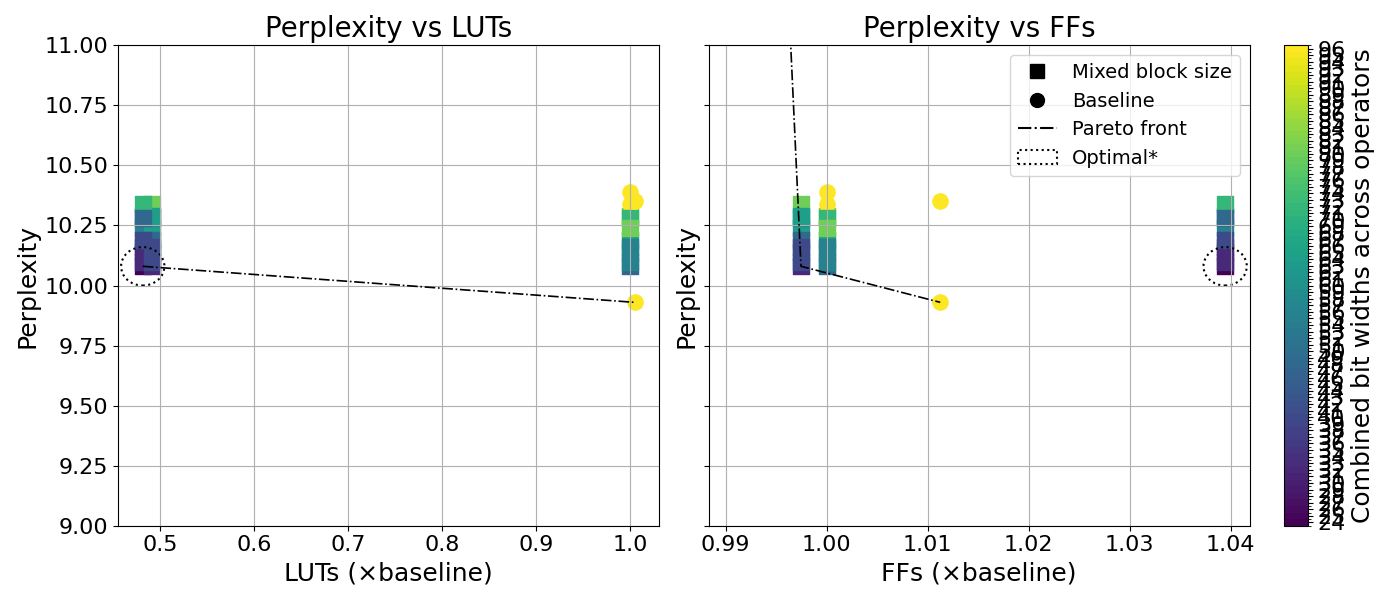
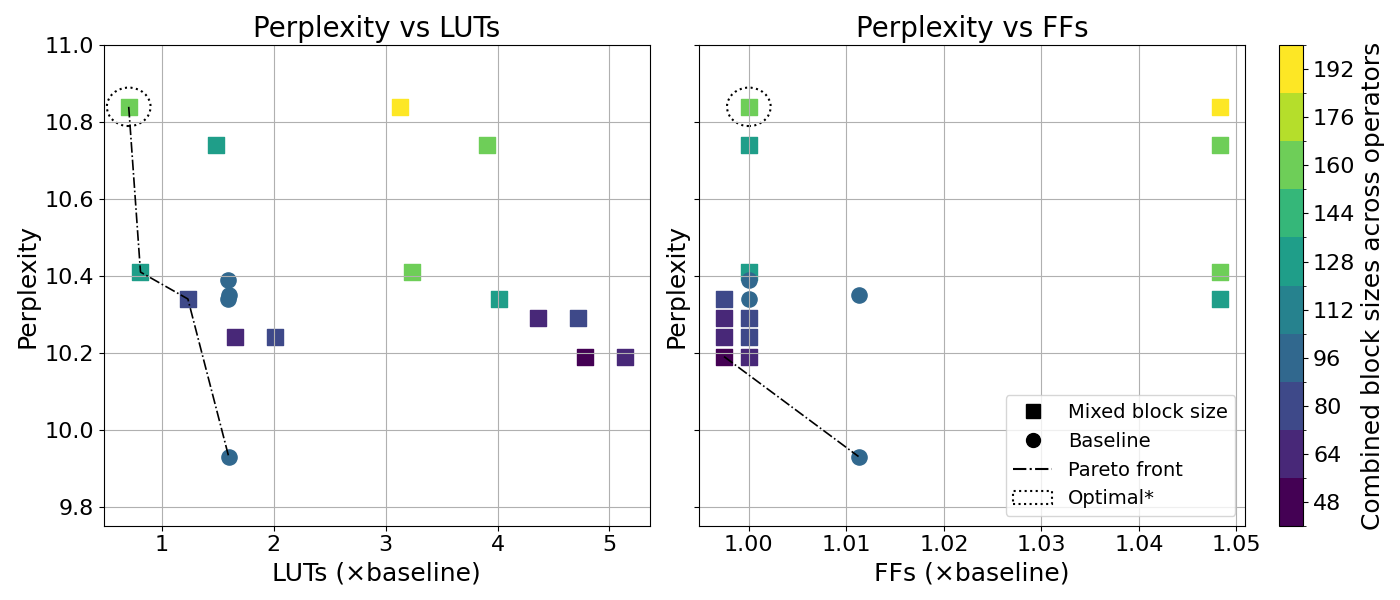
working on accum ablation

diff --git a/DSE.py b/DSE.py
@@ -24,7 +24,7 @@ from deap import base, creator, tools, algorithms
 
 DEBUG_COUNTER = 0
 
-LUTS_BASELINE = 8364022 # TODO
+LUTS_BASELINE = 11874317 # TODO
 FFS_BASELINE = 2592801 # TODO
 
 def gplearn_expr_to_math(expr):
@@ -189,7 +189,8 @@ class DesignConfig:
     )
     
   def is_baseline(self):
-    baseline_e_m = [(0, 8), (5, 2), (4, 3), (3, 2), (2, 3), (2, 1)]
+    baseline_e_m = [(0, 8), (5, 2), (4, 3), (3, 2), (2, 3), (2, 1)] #  ABLATION: BASELINE & MIXED PRECISION
+    # baseline_e_m = [(5, 2), (4, 3), (3, 2), (2, 3)] # ABLATION: MIXED K
     if not any(self._check_all_widths_are(e, m, 5, 10) for e, m in baseline_e_m):
       return False
     
@@ -218,6 +219,15 @@ class DesignConfig:
     if not self._check_if_model_dims_are_baseline():
       return False
     
+    if self.M1_bits.exp_bits + self.M1_bits.mant_bits > 7:
+      return False
+    
+    if self.M2_bits.exp_bits + self.M2_bits.mant_bits > 7:
+      return False
+    
+    if self.M3_bits.exp_bits + self.M3_bits.mant_bits > 7:
+      return False
+    
     return True
   
   def is_mixed_k_ablation(self):
@@ -225,6 +235,16 @@ class DesignConfig:
     baseline_e_m = [(2,3)]
     if not any(self._check_all_widths_are(e, m, 5, 10) for e, m in baseline_e_m):
       return False
+    
+    # Only check for certain k values
+    allowed_k = [16, 32, 64]
+    if self.k1 not in allowed_k:
+      return False
+    if self.k2 not in allowed_k:
+      return False
+    if self.k3 not in allowed_k:
+      return False
+    
     
     baseline_accum_methods = [AccumMethod.Kulisch]
     if not any(self._check_all_accum_methods_are(method) for method in baseline_accum_methods):
@@ -234,6 +254,33 @@ class DesignConfig:
       return False
     
     return True
+  
+  # designs_to_synthesise = [
+  #   DesignConfig(name, S, S, d, d, k1, k2, k3, scale_width, M1_E, M1_M, M2_E, M2_M, M1_E, M1_M, accum_method_1, accum_method_1, accum_method_1, m1_dsp, m1_dsp, m1_dsp)
+  #   for name in ["attention_fp"]
+  #   for S in [2048]
+  #   for d in [64]
+  #   for k1 in [32]
+  #   for k2 in [32]
+  #   for k3 in [32]
+  #   for scale_width in [8]
+  #   for M1_E, M1_M in [(0, 8), (5, 2), (4, 3), (3, 2), (2, 3), (2, 1)]
+  #   for M2_E, M2_M in [(5, 10)]
+  #   for accum_method_1 in [AccumMethod.Kahan, AccumMethod.Neumaier, AccumMethod.Klein, AccumMethod.TwoSum, AccumMethod.FastTwoSum]
+  #   for m1_dsp in ["auto"]
+  # ]
+  
+  def is_mixed_accum_ablation(self):
+    baseline_k = [32]
+    if not any(self._check_all_k_are(k) for k in baseline_k):
+      return False
+    
+    e_m = [(0, 8), (5, 2), (4, 3), (3, 2), (2, 3), (2, 1)]
+    if not any(self._check_all_widths_are(e, m, 5, 10) for e, m in e_m):
+      return False
+    
+    return True
+    
 
   def __repr__(self):
     return (
@@ -759,7 +806,13 @@ class SynthesisHandler:
       #   return
       
       # ABLATION: MIXED K
-      if (not design.is_baseline()) and (not design.is_mixed_k_ablation()):
+      # if (not design.is_baseline()) and (not design.is_mixed_k_ablation()):
+      #   if verbose:
+      #     print(f"Skipping result for {design} as it does not meet ablation check criteria.")
+      #   return
+      
+      # ABLATION: MIXED ACCUM
+      if (not design.is_baseline()) and (not design.is_mixed_accum_ablation()):
         if verbose:
           print(f"Skipping result for {design} as it does not meet ablation check criteria.")
         return
@@ -918,8 +971,9 @@ class SynthesisHandler:
     return pareto
 
   def plot_perplexity(self, directory="./plots", filename_suffix="", plot_file_format="svg"):
-    # color_values = np.array([r.design_config.get_total_bits() for r in self.results])
+    # color_values = np.array([r.design_config.get_total_bits() for r in self.results]) # BASELINE and ABLATION: MIXED PRECISION
     color_values = np.array([r.design_config.get_total_k() for r in self.results]) # ABLATION: MIXED K
+    # color_values = np.array([0, 1, 2, 3, 4, 5]) # ABLATION: MIXED ACCUM
 
     LUTs_mults = np.array(self.LUTs) / LUTS_BASELINE
     FFs_mults = np.array(self.FFs) / FFS_BASELINE
@@ -981,10 +1035,24 @@ class SynthesisHandler:
       False: "s",  # new
     }
     
+    # ABLATION: BASELINE & MIXED PRECISION
+    # cmap = matplotlib.colormaps["viridis"].resampled(color_values.max() - color_values.min() + 1)
+    # bounds = np.arange(color_values.min() - 0.5, color_values.max() + 1.5, 1)
+    # norm = matplotlib.colors.BoundaryNorm(bounds, cmap.N)
+    
+    # ABLATION: MIXED K
+    step = 16
+    vmin = int(np.floor(color_values.min() / step) * step)
+    vmax = int(np.ceil(color_values.max() / step) * step)
+    ticks = np.arange(vmin, vmax + 1, step)
+    bounds = np.concatenate(([ticks[0] - step / 2], (ticks[:-1] + ticks[1:]) / 2, [ticks[-1] + step / 2]))
+    norm = matplotlib.colors.BoundaryNorm(bounds, len(ticks))
+    cmap = matplotlib.colormaps["viridis"].resampled(len(ticks))
+    
+    # ABLATION: MIXED ACCUM
 
-    cmap = matplotlib.colormaps["viridis"].resampled(color_values.max() - color_values.min() + 1)
-    bounds = np.arange(color_values.min() - 0.5, color_values.max() + 1.5, 1)
-    norm = matplotlib.colors.BoundaryNorm(bounds, cmap.N)
+    
+
 
     # figsize = (7, 6) if show_colorbar else (6, 6)
     # fig, ax = plt.subplots(figsize=figsize)
@@ -997,7 +1065,8 @@ class SynthesisHandler:
       # marker = marker_map.get(accum_method, "s")
       
       # other_label = "Mixed precision" # ABLATION: MIXED PRECISION
-      other_label = "Mixed block size"        # ABLATION: MIXED K
+      # other_label = "Mixed block size"        # ABLATION: MIXED K
+      other_label = "Mixed accumulation method"  # ABLATION: MIXED ACCUM
       
       label = "Baseline" if design.is_baseline() else other_label
       marker = marker_map[design.is_baseline()]
@@ -1018,7 +1087,8 @@ class SynthesisHandler:
     
     # ax.set_ylim(bottom=9, top=18) # BASELINE
     # ax.set_ylim(bottom=9, top=35) # ABLATION: MIXED PRECISION ONLY
-    ax.set_ylim(bottom=9, top=11) # ABLATION: MIXED K
+    # ax.set_ylim(bottom=9.75, top=11) # ABLATION: MIXED K
+    # ax.set_ylim(bottom=9.75, top=15) # ABLATION: MIXED ACCUM
     
     
     ax.tick_params(axis='x', labelsize=16)
@@ -1028,9 +1098,11 @@ class SynthesisHandler:
     sm = plt.cm.ScalarMappable(cmap=cmap, norm=norm)
     sm.set_array([])
     if show_colorbar is True:
-      cbar = plt.colorbar(sm, ax=ax, boundaries=bounds,
-                          ticks=np.arange(color_values.min(), color_values.max() + 1))
-      cbar.set_label("Combined bit widths across operators", fontsize=18)
+      # cbar = plt.colorbar(sm, ax=ax, boundaries=bounds, ticks=np.arange(color_values.min(), color_values.max() + 1)) # BASELINE and ABLATION: MIXED PRECISION
+      cbar = plt.colorbar(sm, ax=ax, boundaries=bounds, ticks=ticks) # ABLATION: MIXED K & ACCUM
+      # cbar.set_label("Combined bit widths across operators", fontsize=18) # BASELINE and ABLATION: MIXED PRECISION
+      # cbar.set_label("Combined block sizes across operators", fontsize=18) # ABLATION: MIXED K
+      cbar.set_label("Accumulation method across operators", fontsize=18) # ABLATION: MIXED ACCUM
       cbar.ax.tick_params(labelsize=16)
 
     handles, labels = ax.get_legend_handles_labels()
@@ -1300,13 +1372,19 @@ def predict_synthesis_results(pickle_dir, y_type, dc, normalise_S_q=False):
     model_softmax, poly_softmax, feature_names_softmax = load_pickled_model(f"fit_model_{y_type}_softmax.pkl")
     
     # Normalisation scale
-    div_value = dc.S_q if normalise_S_q else 1.0
+    S_q_div_value = dc.S_q if normalise_S_q else 1.0
+    k_learned_as = 64  # During model training, k was fixed at 64
+    k1_div = (dc.k1 / k_learned_as)**2 if y_type == "LUTs" else 1.0
+    k2_div = 1.0 
+    k3_div = (dc.k3 / k_learned_as)**2 if y_type == "LUTs" else 1.0
+    
+    # matmul: if k is increased by 2 then FFs are the same but LUTs decrease by 2 while perplexity is worse (grows)
     
     # Matmul 1 => y(S_q, d_kq, S_kv, (E1+M1))
     # x_matmul1 = np.array([[dc.S_q, dc.d_kq, dc.S_kv, dc.M1_bits.exp_bits + dc.M1_bits.mant_bits]])
     x_matmul1 = np.array([[dc.S_q, dc.d_kq, dc.M1_bits.exp_bits + dc.M1_bits.mant_bits]])
     # x_matmul1 = np.array([[dc.d_kq, dc.S_kv, dc.M1_bits.exp_bits + dc.M1_bits.mant_bits]])
-    y_matmul1 = predict(x_matmul1, poly_matmul, model_matmul, feature_names_matmul)[0] / div_value
+    y_matmul1 = (predict(x_matmul1, poly_matmul, model_matmul, feature_names_matmul)[0] / S_q_div_value) / k1_div
     # print(f"Matmul1 prediction: {y_matmul1}")
     
     # Softmax => y(k2, (E2+M2), (E3+M3))
@@ -1318,11 +1396,11 @@ def predict_synthesis_results(pickle_dir, y_type, dc, normalise_S_q=False):
     # x_matmul2 = np.array([[dc.S_q, dc.S_kv, dc.d_v, dc.M3_bits.exp_bits + dc.M3_bits.mant_bits]])
     x_matmul2 = np.array([[dc.S_q, dc.S_kv, dc.M3_bits.exp_bits + dc.M3_bits.mant_bits]])
     # x_matmul2 = np.array([[dc.S_kv, dc.d_v, dc.M3_bits.exp_bits + dc.M3_bits.mant_bits]])
-    y_matmul2 = predict(x_matmul2, poly_matmul, model_matmul, feature_names_matmul)[0] / div_value
+    y_matmul2 = (predict(x_matmul2, poly_matmul, model_matmul, feature_names_matmul)[0] / S_q_div_value) / k3_div
     # print(f"Matmul2 prediction: {y_matmul2}")
     
     if y_type in ["LUTs", "FFs"]:
-      softmax_parallelism = dc.S_q * dc.S_kv // dc.k2 / div_value
+      softmax_parallelism = (dc.S_q * dc.S_kv // dc.k2 / S_q_div_value) / k2_div
       prediction = y_matmul1 + softmax_parallelism * y_softmax + y_matmul2
     else:
       raise ValueError(f"Unknown y_type: {y_type}")
@@ -1445,12 +1523,12 @@ if __name__ == "__main__":
   synthesis_handler = SynthesisHandler([], synth_output_dir="synth_output")
   synthesis_handler.find_and_process_results(report_filter="accuracy", predict_resources=True, ablation_check=True, verbose=args.verbose)
   
-  print(synthesis_handler)
+  # print(synthesis_handler)
   
   pareto_point = synthesis_handler.find_pareto_optimal(weights={'LUTs': 1.0, 'FFs': 1.0, 'accuracy': 1.0})
   print(f"Pareto Optimal Design:\n{pareto_point}")
   
-  synthesis_handler.plot_perplexity(directory="./plots", filename_suffix="mixed_k", plot_file_format="png")
+  synthesis_handler.plot_perplexity(directory="./plots", filename_suffix="mixed_accum", plot_file_format="png")
   
   
 
